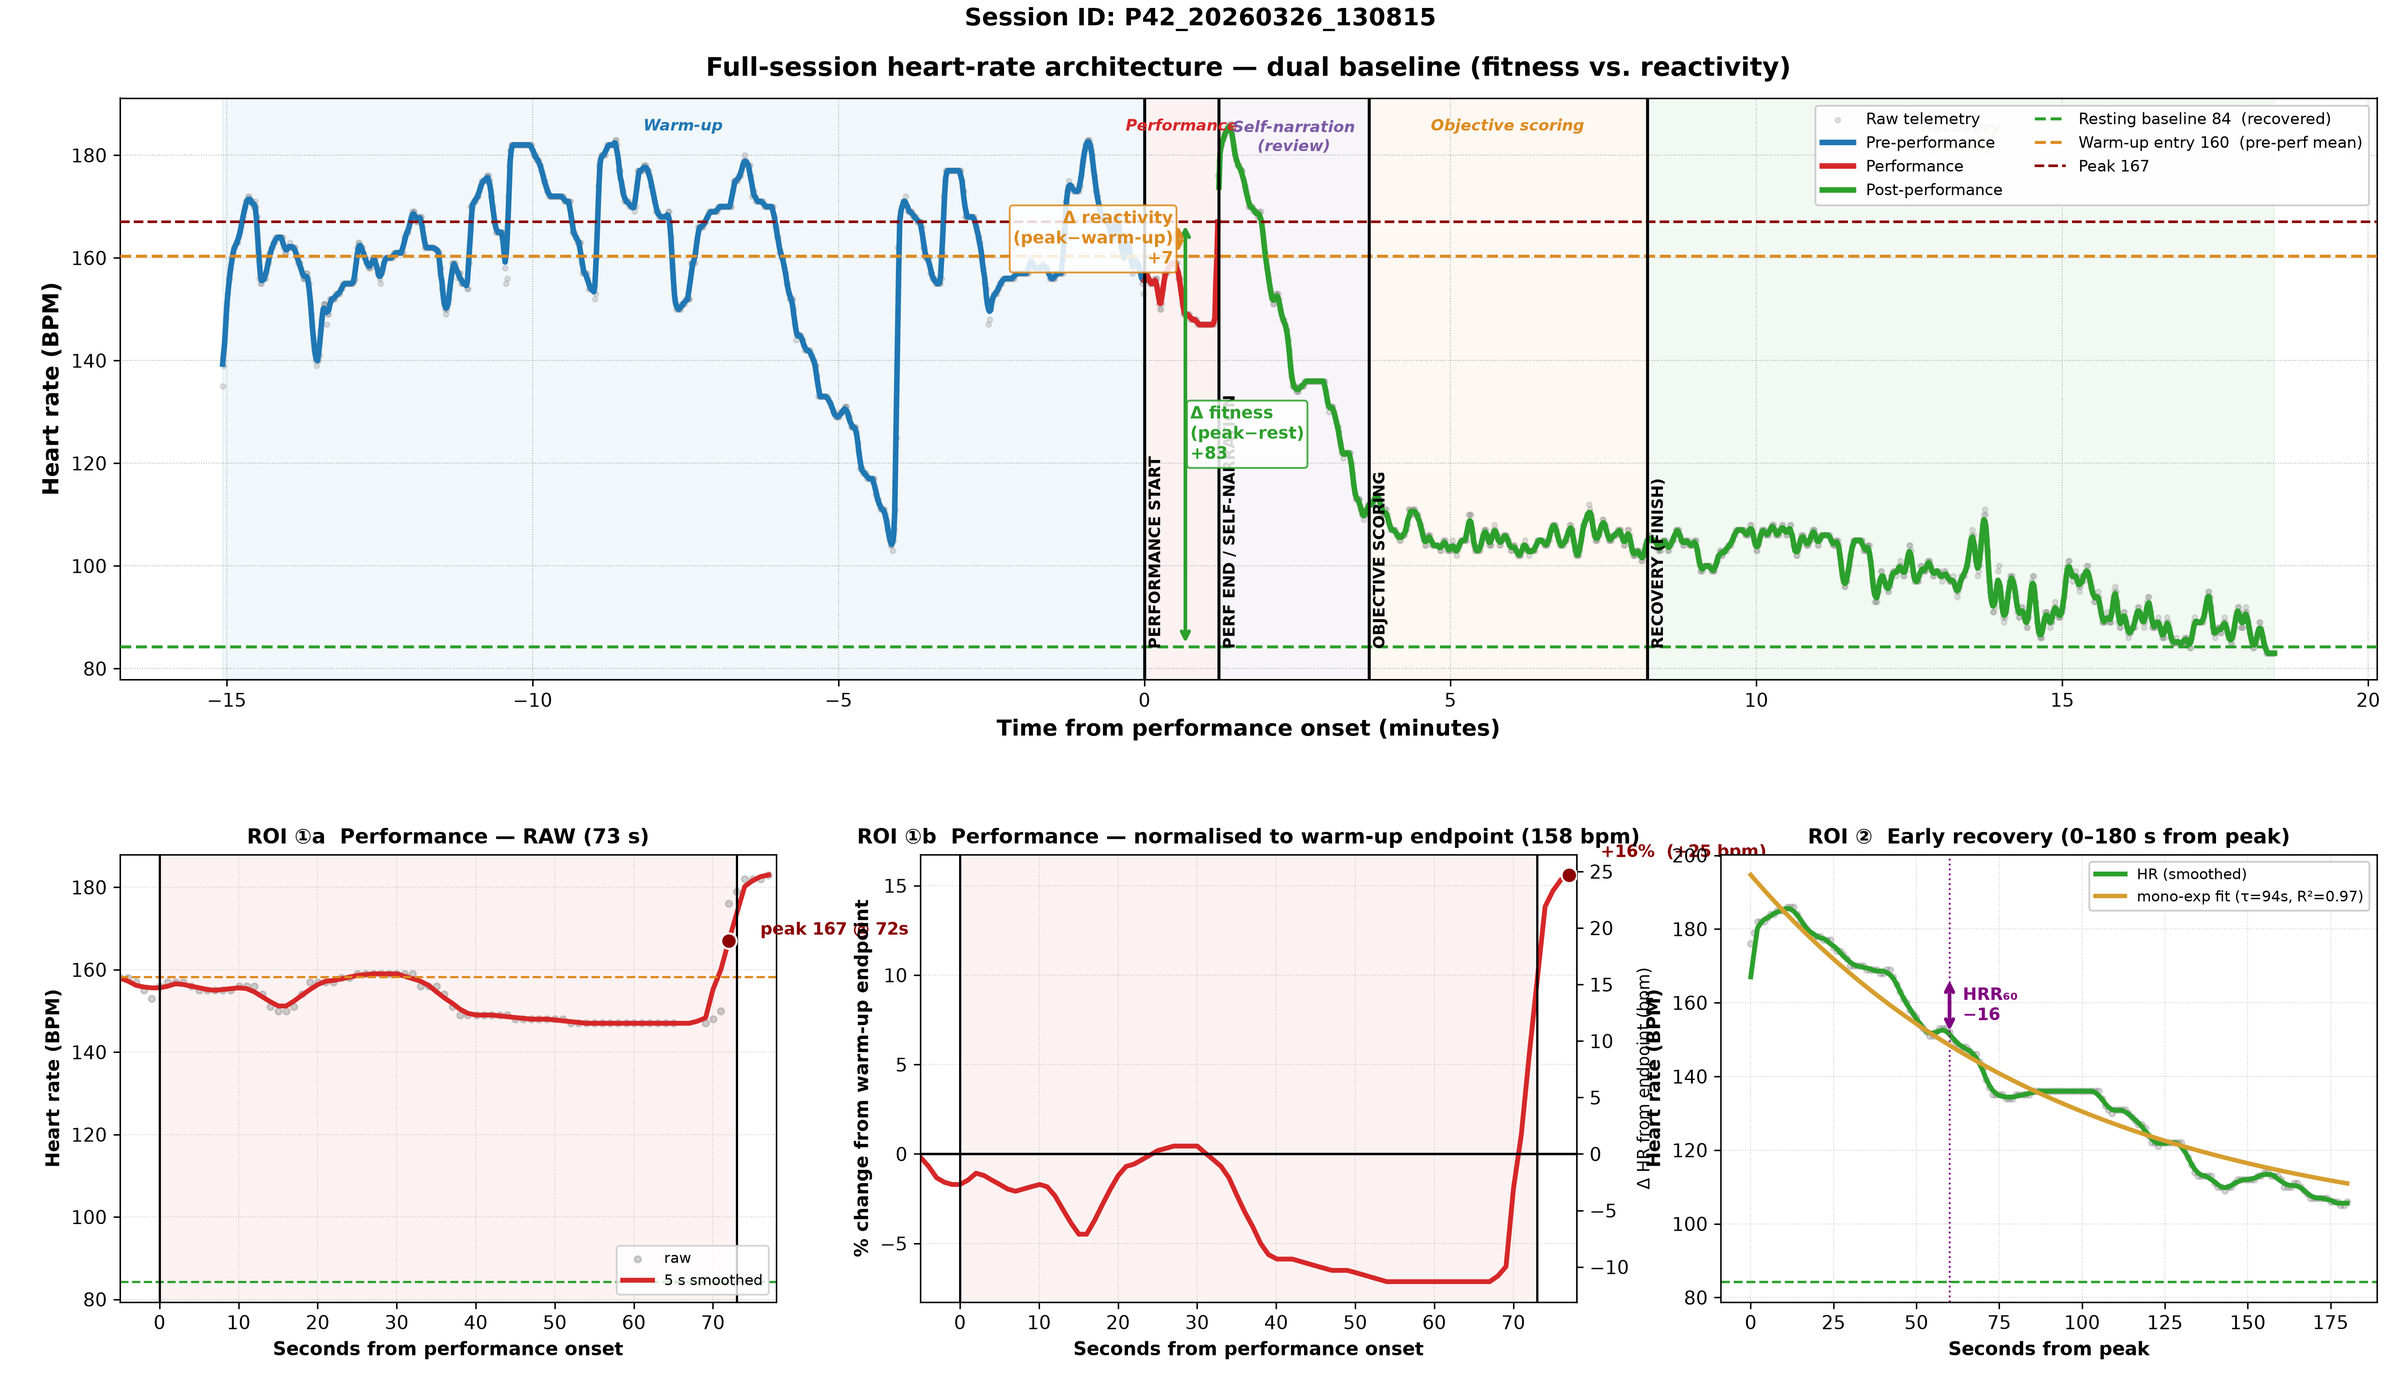
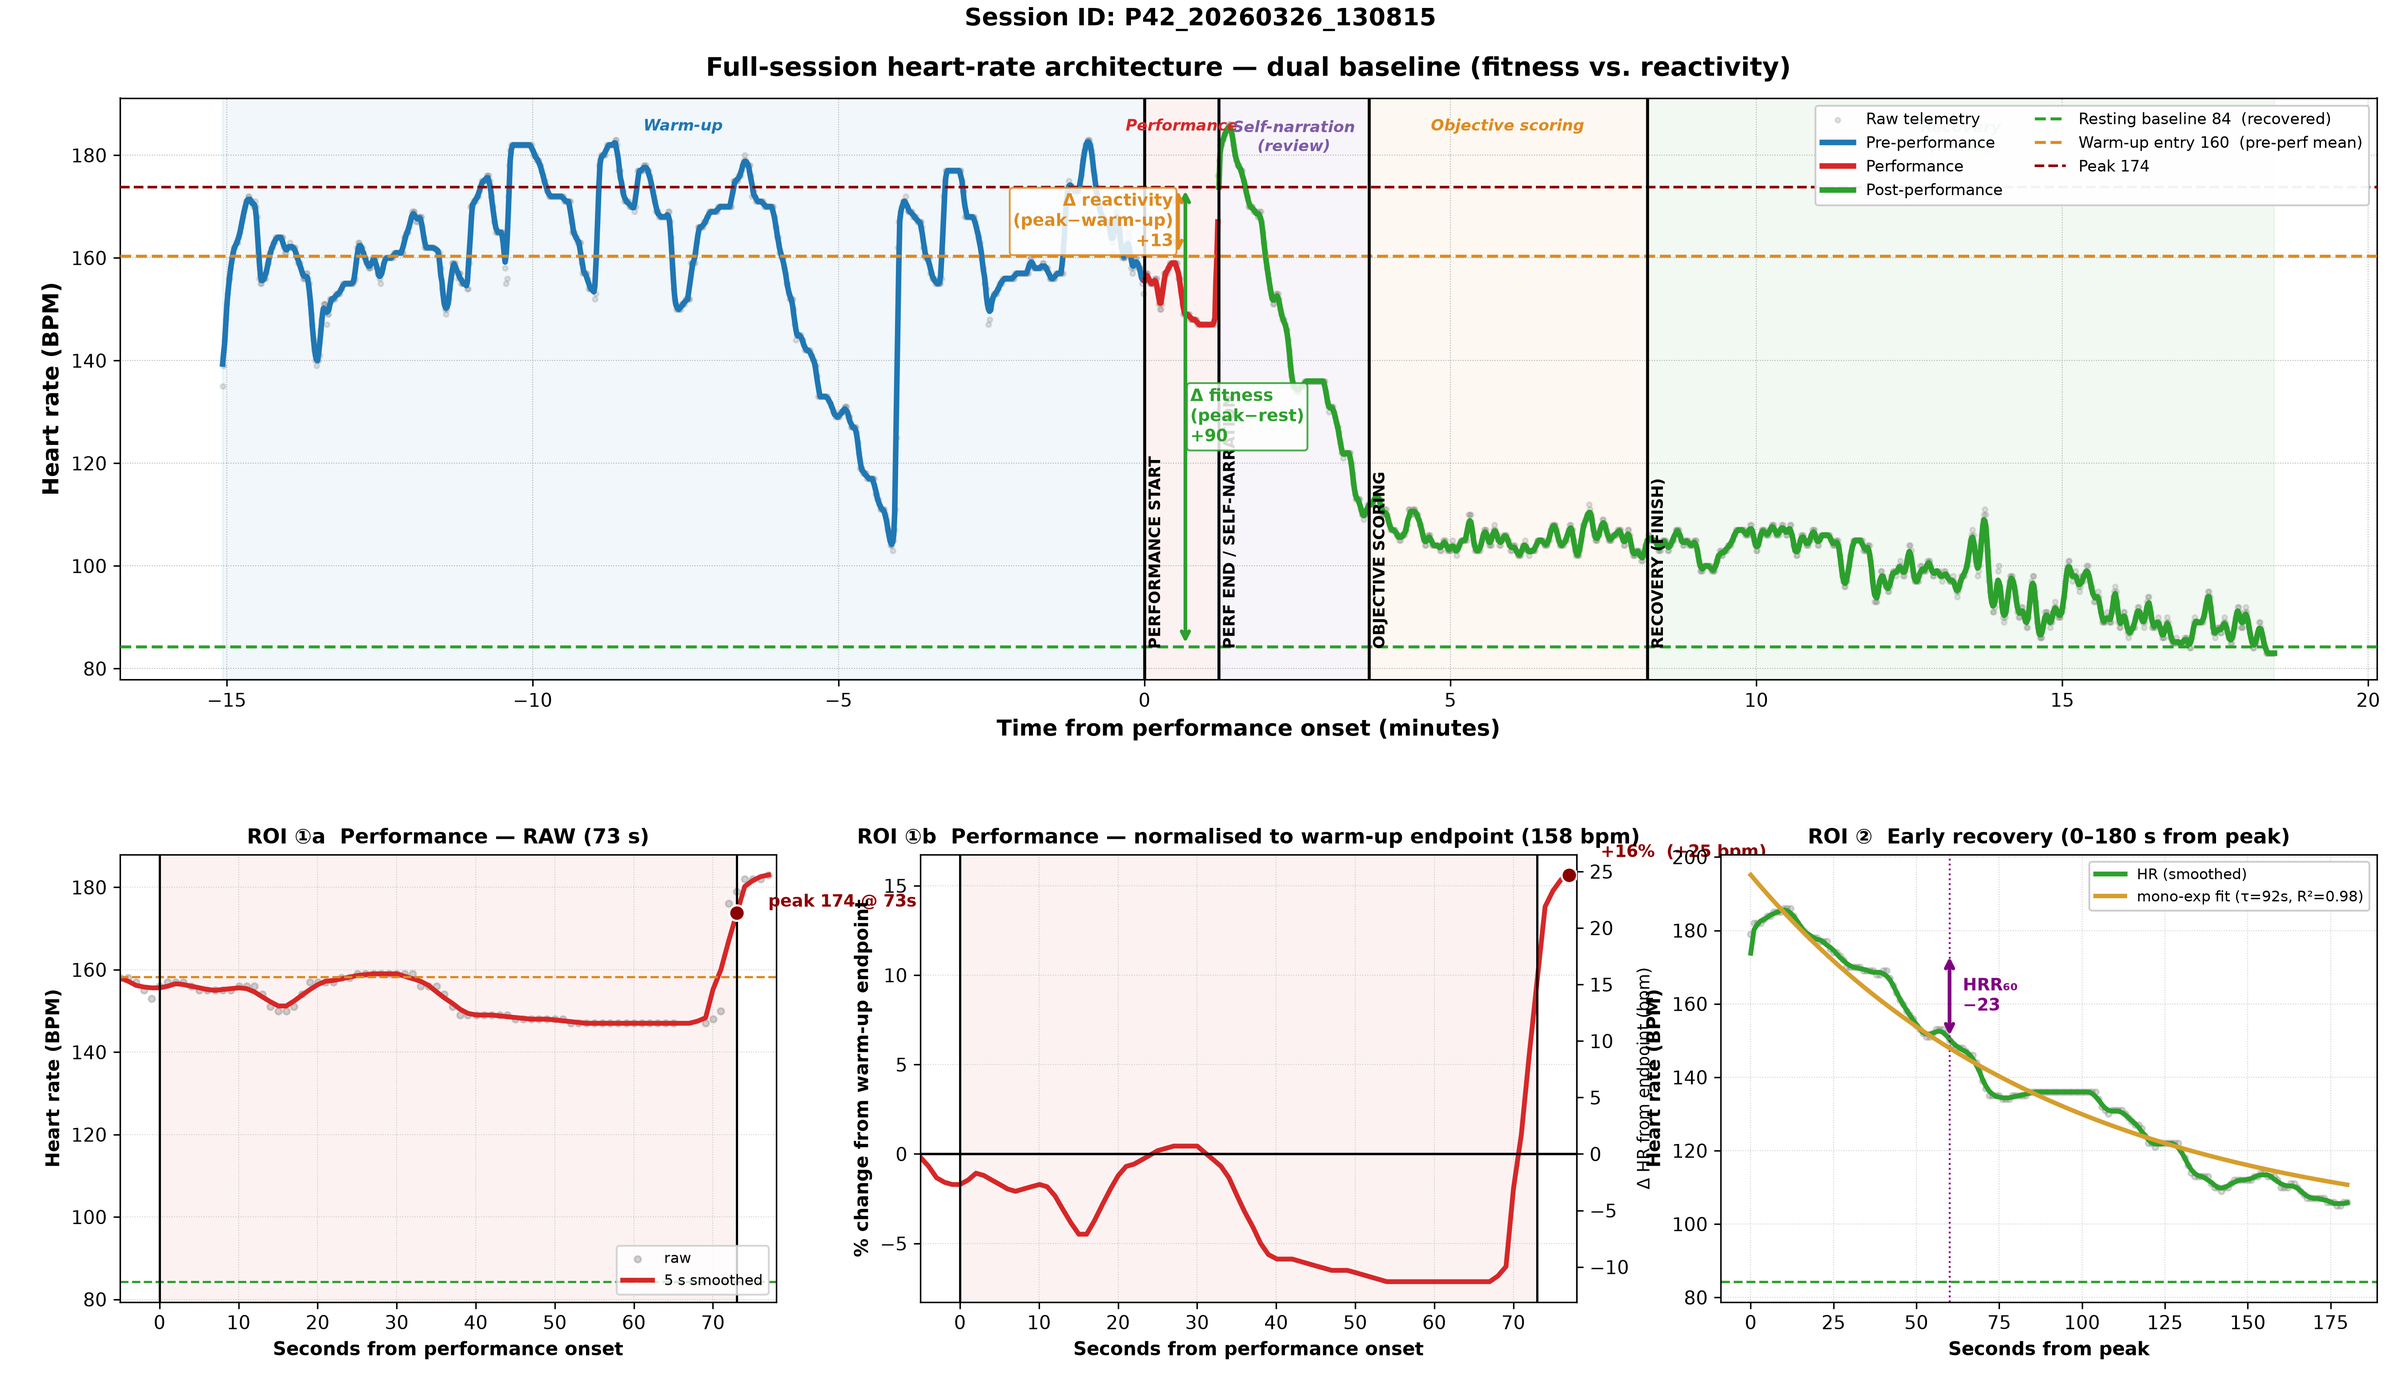
updated HR analysis script

diff --git a/Iris_Recorded_Taekwondo_Data/scripts/heart rate analysis flow study.py b/Iris_Recorded_Taekwondo_Data/scripts/heart rate analysis flow study.py
@@ -1,10 +1,6 @@
 """
 Full-session heart-rate analysis for the poomsae flow study.
 
-Version 1.2
-Date: 15-July-2026
-Authors: Angela Czarina Mejia and Cam Hickling
-
 WHAT CHANGED:
 ----------------------------------------
 1. The previous 'baseline' was the warm-up MEAN... an already-
@@ -14,21 +10,21 @@ WHAT CHANGED:
        * warm-up entry level (pre-performance mean)
              -> delta_reactivity = peak - warm-up entry (reactivity conditioned on the warm-up)
 
-2. I added vertical lines + labels to demarcate SELF-NARRATION (review) and
+2. I added Vertical lines + labels which demarcate SELF-NARRATION (review) and
    OBJECTIVE-SCORING (scoring), not just performance start/end.
 
-3. PERFORMANCE ROI... RAW and NORMALISED (as per Baruch).  Two panels side by side:
+3. PERFORMANCE ROI... raw and normalized (as per Baruch).  Two panels side by side:
        (a) RAW BPM on a seconds axis (absolute values preserved), and
        (b) % CHANGE from the WARM-UP ENDPOINT (mean of the last ENTRY_ONSET_SEC of
            warm-up) so every athlete starts at ~0% and the SHAPES are comparable
            across participants with different baselines.
    A third panel shows the early-recovery ROI (HRR60 + optional tau).
 
-4. The crawl also emits a single figure overlaying every
-   participant's warm-up-endpoint-normalised performance curve on one axis — the
+4. The crawl for group overlay also emits a single figure overlaying every
+   participant's warm-up-endpoint-normalised performance curve on one axis... the
    direct cross-participant pattern comparison the normalisation unlocks.
 
-5. The crawl writes an analysis-ready master CSV of per-session
+5. The crawl for metric export writes an analysis-ready master CSV of per-session
    scalar features (both deltas, peak, time-to-peak, HRR60, tau, AUCg/AUCi,
    artifact/QC counts, resting/recovery RMSSD & SDNN).
 
@@ -42,6 +38,7 @@ Notes
 """
 
 import os
+import re
 import fnmatch
 import shutil
 import numpy as np
@@ -70,10 +67,12 @@ RECOVERY_FIT_MIN   = 5.0       # window (min) after peak for the mono-exponentia
 MALIK_PCT          = 0.20      # NN artifact rule: drop beats differing >20% from the prior
 HR_MIN, HR_MAX     = 30, 220   # physiological gate on the BPM series (0-bpm dropouts etc.)
 MAX_INTERP_RUN     = 4         # repair runs of <=N bad samples; longer runs stay NaN (not invented)
+MAX_SEAM_GAP_S     = 30        # multi-part files are only ONE session if they join contiguously;
+                               # a bigger gap means separate recordings -> do not silently merge
 GATE_ON_CONTACT    = False     # sensor_contact=False is REPORTED but not auto-rejected.
                                # Some sessions (e.g. P27B: 4093 flags) would lose most of their
                                # data while still reporting plausible BPM - i.e. the flag's
-                               # reliability is unestablished. Inspect those sessions, then decide.
+                               # reliability is unestablished. We'll inspect these sessions, then decide.
 PEAK_POST_LOOK_S   = 45.0      # ALSO report the max up to N s AFTER performance end (HR peaks late)
 PEAK_BOUNDARY_TOL_S = 5.0      # flag when the in-window peak sits this close to the window end
 PERF_ZOOM_PRE_S    = 5         # pre-onset context (s) shown in the performance panels
@@ -82,11 +81,19 @@ REC_ZOOM_S         = 180       # length (s) of the recovery zoom panel
 
 # Sessions to exclude from the analysis set (still on disk, just not analysed).
 # P02B/P10B = retries; P18B/P27B = freestyle. Not part of the pre-registered protocol.
-EXCLUDE_PARTICIPANTS = ['P02B', 'P10B', 'P18B', 'P27B']
+# P02B/P10B = retries; P18B/P27B = freestyle.
+# P26_retry = second performance after an RA camera error (the first performance was fine, but
+# the athlete could not watch it back). Naming is inconsistent across the dataset... some retries
+# got their own folder (…B), P26's is a filename suffix - so BOTH forms are listed here.
+EXCLUDE_PARTICIPANTS = ['P02B', 'P10B', 'P18B', 'P27B', 'P26_retry']
 
 # A poomsae is typically ~40-90 s. A much longer labelled window usually means the
 # recording button was pressed late, not that the form took that long -> flag for video review.
 PLAUSIBLE_PERF_MAX_S = 120.0
+
+# Guards the float round-trip on window boundaries (~0.06 ms). Without it the last sample of a
+# window can be dropped by a `<=` comparison.
+_EPS_MIN = 1e-6
 
 C_WARM, C_PERF, C_REVIEW, C_SCORE, C_FINISH = '#1f77b4', '#d62728', '#7d5ba6', '#dd8a1f', '#2ca02c'
 
@@ -157,6 +164,32 @@ def _hrv_timedomain(df, phase_name):
             'pct_flagged': float(100.0 * (~keep).mean())}
 
 
+_PART_RE = re.compile(r'_(\d+)of(\d+)$', re.I)
+
+
+def _group_session_files(filenames):
+    """Group a folder's HR files into sessions.
+
+    ONLY '_NofM' suffixes mean 'parts of one recording' (P20_hr_full_session_1of2 +
+    _2of2 -> one session). Anything else is a SEPARATE session: P26_hr_full_session and
+    P26_hr_full_session_retry are two performances, and merging them would invent a
+    416 s 'poomsae' out of two takes.
+
+    Returns {session_key: (sorted_filenames, variant_tag_or_None)}.
+    """
+    groups = {}
+    for f in filenames:
+        stem = os.path.splitext(f)[0]
+        key = _PART_RE.sub('', stem)
+        groups.setdefault(key, []).append(f)
+    out = {}
+    for key, files in groups.items():
+        m = re.search(r'hr_full_session[_\-]+(.+)$', key, re.I)
+        variant = m.group(1).lower() if m else None      # e.g. 'retry'
+        out[key] = (sorted(files), variant)
+    return out
+
+
 def _load_session_parts(paths):
     """Load one session, concatenating multi-part files (e.g. *_1of2.csv, *_2of2.csv).
     Sorted by filename so 1of2 precedes 2of2, then re-sorted by timestamp and de-duplicated
@@ -171,6 +204,13 @@ def _load_session_parts(paths):
     if len(paths) > 1:
         gaps = np.diff(df['timestamp'].values)
         qc['max_seam_gap_s'] = round(float(gaps.max()), 1) if len(gaps) else 0.0
+        qc['parts_contiguous'] = bool(qc['max_seam_gap_s'] <= MAX_SEAM_GAP_S)
+        qc['part_files'] = '|'.join(os.path.basename(x) for x in sorted(paths))
+        # WHERE the gap falls is what matters: a hole in warm-up is cosmetic, a hole in the
+        # performance or the recovery tail is not.
+        if len(gaps) and 'phase' in df.columns:
+            i = int(np.argmax(gaps))
+            qc['seam_gap_phase'] = f"{df['phase'].iloc[i]}->{df['phase'].iloc[i + 1]}"
     return df, qc
 
 
@@ -236,7 +276,7 @@ def _perf_norm_curves(df, m, pre_pad_s=0.0, post_pad_s=0.0):
     perf_dur_min = m['perf_duration_s'] / 60.0
     lo = -pre_pad_s / 60.0
     hi = perf_dur_min + post_pad_s / 60.0
-    seg = df[(df['rel_time_mins'] >= lo) & (df['rel_time_mins'] <= hi)].copy()
+    seg = df[(df['rel_time_mins'] >= lo - _EPS_MIN) & (df['rel_time_mins'] <= hi + _EPS_MIN)].copy()
     sec = seg['rel_time_mins'].values * 60.0
     delta = seg['bpm_smoothed'].values - ref
     pct = delta / ref * 100.0
@@ -256,7 +296,15 @@ def compute_session_metrics(df, perf_duration_min):
     onset_win = pre[pre['rel_time_mins'] >= -(ENTRY_ONSET_SEC / 60.0)]
     entry_onset = float(onset_win['bpm'].mean()) if not onset_win.empty else entry_warmup
 
-    perf_win = df[(df['rel_time_mins'] >= 0) & (df['rel_time_mins'] <= perf_duration_min)]
+    # Use the PHASE LABEL, not a float comparison. rel_time_mins is derived via
+    # timestamp -> datetime64[ns] -> total_seconds()/60, and that round-trip means the final
+    # sample can land a hair above perf_duration_min (e.g. 1.4000000000166 <= 1.4 is False),
+    # silently dropping the last second of the window. Harmless mid-window, but for sessions
+    # whose peak sits AT the edge (P41/P42/P48/P26) it discarded the peak itself.
+    perf_win = _phase(df, 'performance')
+    if perf_win.empty:
+        perf_win = df[(df['rel_time_mins'] >= 0) &
+                      (df['rel_time_mins'] <= perf_duration_min + _EPS_MIN)]
     if perf_win.empty:
         perf_win = df
     peak_hr = float(perf_win['bpm_smoothed'].max())
@@ -271,7 +319,7 @@ def compute_session_metrics(df, perf_duration_min):
     peak_ext = float(look['bpm_smoothed'].max()) if len(look) else peak_hr
     t_peak_ext_s = float(look.loc[look['bpm_smoothed'].idxmax(), 'rel_time_mins']) * 60.0 if len(look) else time_to_peak_s
     peak_at_boundary = (perf_dur_s - time_to_peak_s) <= PEAK_BOUNDARY_TOL_S
-    peak_outside = t_peak_ext_s > perf_dur_s
+    peak_outside = t_peak_ext_s > perf_dur_s + 0.5   # tolerance: samples land on ~1 s grid
 
     delta_fitness = peak_hr - baseline_rest
     delta_reactivity = peak_hr - entry_warmup
@@ -572,13 +620,16 @@ def _parse_ids(file_path, root_directory):
 
 
 def process_single_session(file_paths, desktop_folder, root_directory=None, curve_accumulator=None,
-                           output_image_name='session_hr_analysis.png'):
+                           output_image_name='session_hr_analysis.png', variant=None):
     if isinstance(file_paths, str):
         file_paths = [file_paths]
     file_path = sorted(file_paths)[0]
     if root_directory is None:
         root_directory = os.path.dirname(os.path.dirname(os.path.dirname(file_path)))
     experiment_id, participant_id = _parse_ids(file_path, root_directory)
+    if variant:                       # e.g. 'retry' -> P26_retry, kept separate from P26
+        experiment_id = f"{experiment_id}_{variant}"
+        participant_id = f"{participant_id}_{variant}"
 
     if participant_id in EXCLUDE_PARTICIPANTS:
         print(f"  [SKIP] {experiment_id} - {participant_id} is excluded "
@@ -632,16 +683,32 @@ def process_single_session(file_paths, desktop_folder, root_directory=None, curv
     fig.suptitle(f'Session ID: {experiment_id}', fontsize=13, fontweight='bold', y=0.995)
     fig.subplots_adjust(top=0.93, bottom=0.07, left=0.05, right=0.99, hspace=0.34, wspace=0.22)
 
+    if variant:
+        stem, ext = os.path.splitext(output_image_name)
+        output_image_name = f"{stem}_{variant}{ext}"
     local_output_path = os.path.join(os.path.dirname(file_path), output_image_name)
     plt.savefig(local_output_path, dpi=300)
     plt.close(fig)
     shutil.copy2(local_output_path, os.path.join(desktop_folder, f"{experiment_id}_responsive_analysis.png"))
     # NOTE: console output is deliberately plain ASCII (Windows consoles are often cp1252
     # and raise UnicodeEncodeError on characters like the delta sign when redirected).
+    if part_qc.get('parts_contiguous') is False:
+        # '_NofM' naming DECLARES these to be one recording, so a gap is a dropout WITHIN the
+        # session (e.g. Bluetooth drop -> recorder opened a new file), not two separate takes.
+        print(f"    [WARN] {part_qc['n_file_parts']}-part recording has a "
+              f"{part_qc['max_seam_gap_s']:.0f}s hole at the join "
+              f"[{part_qc.get('seam_gap_phase', '?')}] -> no data for that stretch; check the "
+              f"phase it lands in before trusting any metric that spans it.")
+        print(f"           files: {part_qc.get('part_files')}")
+    if m.get('true_peak_outside_window'):
+        print(f"    [WARN] peak sits at the window edge; true max is {m['peak_bpm_lost_by_clipping']:.1f} bpm "
+              f"higher at {m['t_peak_extended_s']:.0f}s (window ends {m['perf_duration_s']:.0f}s) "
+              f"-> delta_fitness is built on a truncated peak")
     if m.get('baseline_suspect'):
         print(f"    [WARN] recovery tail only {m.get('pct_finish_valid_orig')}% valid "
-              f"({m.get('n_finish_valid_orig')}s of {m.get('n_finish_original')}s) -> strap likely "
-              f"removed before recorder stopped; resting baseline and delta_fitness NOT trustworthy")
+              f"({m.get('n_finish_valid_orig')}s of {m.get('n_finish_original')}s) -> strap likely removed "
+              f"before recorder stopped. CHECK: {m.get('n_finish_valid_orig')}s of surviving recovery may "
+              f"still be plenty for a resting baseline - inspect the figure before excluding.")
     if m.get('perf_duration_implausible'):
         print(f"    [WARN] performance window {m['perf_duration_s']:.0f}s > {PLAUSIBLE_PERF_MAX_S:.0f}s "
               f"-> recorder likely stopped late; verify true poomsae duration on video")
@@ -677,20 +744,24 @@ def crawl_and_render_all(root_directory, target_pattern,
         # pattern match so renamed ('P05_hr_full_session.csv') AND split
         # ('P20_hr_full_session_1of2.csv') files are found
         matched = sorted(fnmatch.filter(filenames, target_pattern))
-        # exclude the ECG stream if the pattern is broad
-        matched = [f for f in matched if 'ecg' not in f.lower()]
+        matched = [f for f in matched if 'ecg' not in f.lower()]   # never pick up the ECG stream
         if not matched:
             continue
-        paths = [os.path.join(dirpath, f) for f in matched]
-        try:
-            # all parts in one directory belong to the same session
-            m = process_single_session(paths, desktop_path,
-                                       root_directory=root_directory, curve_accumulator=curves)
-            if m is not None:
-                rows.append(m)
-                processed += 1
-        except Exception as e:
-            print(f"    [ERROR] {dirpath}: {e}")
+        sessions = _group_session_files(matched)
+        if len(sessions) > 1:
+            print(f"  [NOTE] {os.path.basename(dirpath)}: {len(sessions)} separate recordings here "
+                  f"-> {', '.join(sorted(sessions))}. Treated as DISTINCT sessions, not merged.")
+        for key in sorted(sessions):
+            files, variant = sessions[key]
+            paths = [os.path.join(dirpath, f) for f in files]
+            try:
+                m = process_single_session(paths, desktop_path, root_directory=root_directory,
+                                           curve_accumulator=curves, variant=variant)
+                if m is not None:
+                    rows.append(m)
+                    processed += 1
+            except Exception as e:
+                print(f"    [ERROR] {key}: {e}")
 
     if rows:
         metrics_df = pd.DataFrame(rows).sort_values('participant_id').reset_index(drop=True)
